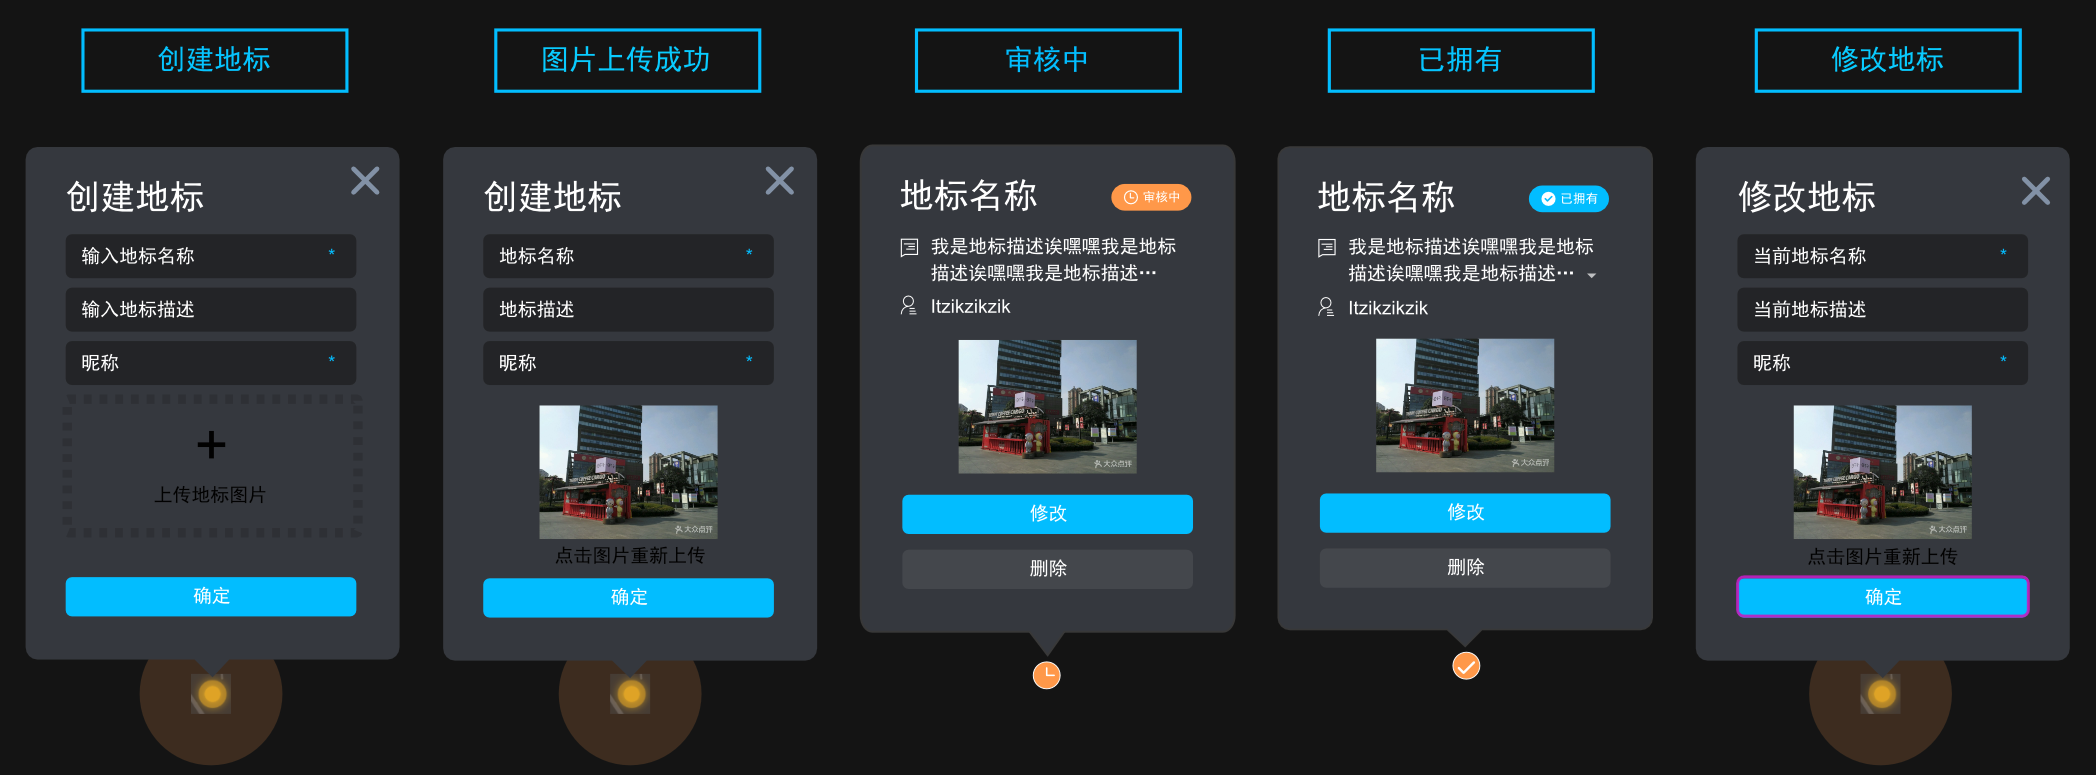
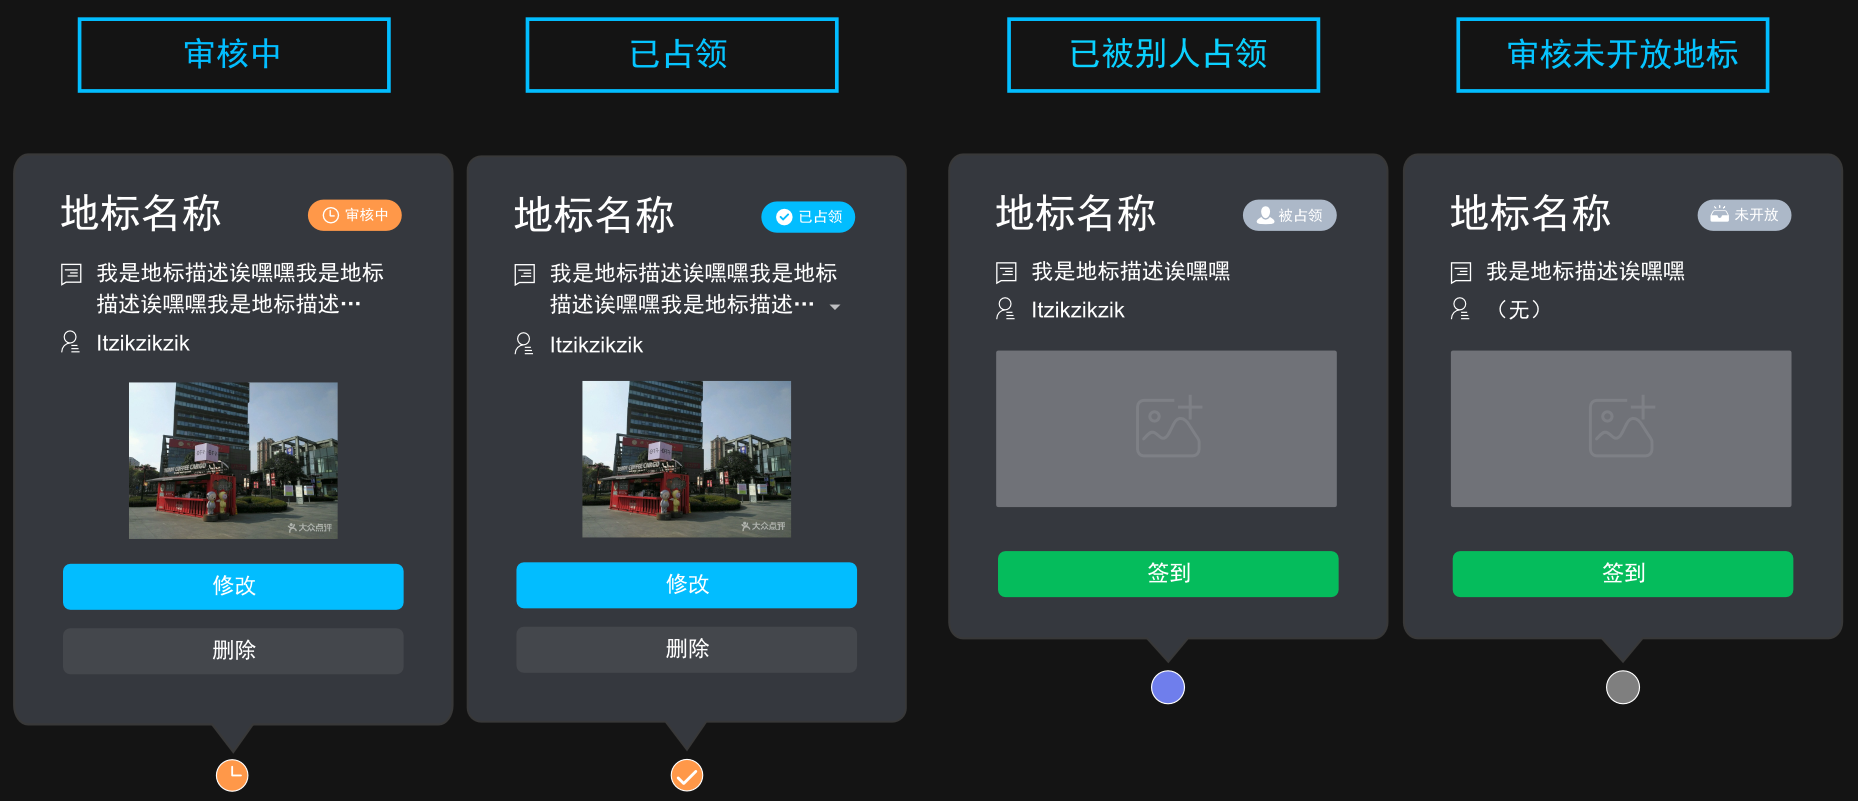
update document

diff --git a/requirements_documentation/地标打卡功能.md b/requirements_documentation/地标打卡功能.md
@@ -8,65 +8,64 @@
     * 以用户当前位置为中心，渲染一个半径为50米签到范围的半透明圆形签到范围。
     * 当用户缩放地图后，重新渲染签到范围覆盖的范围。
 * b)当用户可以创建地标的时候，在用户当前位置上
-* c) 默认显示其500米以内任何用户创建的处于“已拥有”状态的地标
+* c) 默认显示其500米以内任何用户创建的处于“已占领”状态的地标
 * d) 默认显示其500米以内任何用户创建的处于“未开放”状态的地标。
-* d) 默认显示当前登录**用户创建的所有**处于“审核中”和“已拥有”状态的所有地标
-* e) 当前用户定位坐标与距离最近的地标间隔大于10米时，在用户当前位置上方显示“创建地标”按钮
-* d) 地标完整显示方式都是缩略图气泡+标记点。
+* e) 默认显示当前登录**用户创建的所有**处于“审核中”和“已占领”状态的所有地标
+* f) 当前用户定位坐标与距离最近的地标间隔大于10米时，在用户当前位置上方显示“创建地标”按钮
+* g) 地标完整显示方式都是缩略图气泡+标记点。
     * 缩略图气泡显示规则：
         * 只有当地图比例尺显示精度达到100米的时候，才开始显示缩略图气泡，气泡中展示当前地标的缩略图片
         * 缩略图紧密显示在标记点的上方
-        * 当缩略图气泡出现遮挡情况时，默认地图中越靠近北极的气泡显示层级越高，越靠近左边的气泡显示层级越高。层级高的气泡会遮挡层级低的气泡。
+        * 当缩略图气泡出现遮挡情况时，默认地图中越靠近北极的气泡显示层级越高，越靠近左边的气泡显示层级越高。
+        * 层级高的气泡会遮挡层级低的缩略图气泡。
 ![气泡缩略图显示层级](../image/地标签到打卡/0.png)
     * 标记点显示规则：
         * 一共采用4种UI图标来区分标记点
-            * 未开放的地标：（灰色圆点）
-            * 别人发布的地标：（蓝色圆点）
+            * 未开放的地标--未开放状态（灰色圆点）
+            * 别人发布的地标--被占领状态（蓝色圆点）
             * 当前登录用户发布的地标--审核中状态（橘色时钟圆点）
-            * 当前登录用户发布的地标--已拥有状态（橘色对勾圆点）
-        * 标记点的显示层级低于缩略图气泡,气泡一定会遮挡住标记点
-            
+            * 当前登录用户发布的地标--已占领状态（橘色对勾圆点）
+        * 标记点的显示层级低于缩略图气泡,气泡一定会遮挡住标记点            
 ![标记点类型](../image/地标签到打卡/point.png)
 
 ---
 ## 2. 互动操作
-* 点击地图界面上任意图标，都会弹出详情界面，并且将点击的图标水平居中，垂直居画面下方1/3处
-### 创建和修改地标
-![标记点类型](../image/地标签到打卡/cards_state.png)
+### 2.1 地图操作
+* 重新定位：点击“定位按钮”，重新定位用户位置，并且重新渲染周围地标内容。
+* 缩放地图时：在“定位按钮”旁边加入比例尺显示。
+### 2.2 创建-修改-审核地标
+![创建地标浮窗样式](../image/地标签到打卡/create_card.png)
+![界面样式](../image/地标签到打卡/review_point.png)
 #### 创建地标
-* 当用户点击“创建地标”按钮之后，会显示出创建地标弹窗，需要填写以下信息（\*号为必填）
+* 当用户点击“创建地标”按钮之后，会在用户当前位置显示出“创建地标”弹窗，并且将用户位置图标和地图在屏幕上保持水平居中，垂直居画面下方1/3处.
+* 只有点击“创建地标”弹窗上的退出按钮才可以关闭弹窗界面
+* 在“创建地标”弹窗中需要填写以下信息（\*号为必填）
     * 地标名称 \*
     * 地标描述
     * 点击上传地标图片 \*（固定尺寸的缩略图，点击可放大）
-    * 昵称 \* （注：该昵称不跟随地标，跟随用户，即该用户所拥有的所有地标，昵称均为一个，初始没有，默认显示为：“用户+随机八位字符串”，字符串为字母+数字）
+    * 昵称 \* （注：该昵称不跟随地标，跟随用户，即该用户所占领的所有地标，昵称均为一个，初始没有，默认显示为：“用户+随机八位字符串”，字符串为字母+数字）
 * 填写完成后再次点击图片可以重新上传
-* 点击“确定”按钮之后，上传内容，该地标进入审核状态，由后台人员进行审核。（审核流程~）
-#### 审核
+* 点击“确定”按钮之后，弹出钱包签名请求，确认签名后上传内容，该地标进入审核状态，由后台人员进行审核。（审核流程~）
 * 在审核过程中，会在该申请地标的位置生成一个只有“创建者”和“管理员”才可以看见的标记点和缩略图气泡
-* 地标审核状态一共有三种：
-    * 审核中：用户提交后的状态，在管理员没有审核完成之前，用户都可以以远程的方式选中地标并且进行内容修改（查看上图中“审核中”“已拥有”和“修改地标”中的设计）
-    * 已拥有：审核通过后的状态。
-    * 删除
-    * 未开放：后续可以开发用户主动释放地标，以及管理员删除用户拥有的地标功能。（比如认定某个用户为恶意用户，管理员可清空他的资产。）
-### 查看地标
-![定位到当前位置](../image/地标签到打卡/review_point.png)
-
-
-1. 用户上传后，该地标进入审核状态，由后台人员审核通过后状态变为已拥有。（后台审核页面待定）
-
-2. 地标状态一共分为三种：
-
-
-3. 用户上传后，即在该点显示一个新的标识。点击弹出浮层显示详情（类似于dapp大会的显示。）
-![定位到当前位置](../image/地标签到打卡/2.png)
-
-* 浮层显示的详情信息包括：地标名称，拥有者昵称，地标描述，地标状态（审核中，已拥有），地标照片（缩略图，点击可放大）
+#### 审核
+* 地标审核状态一共有4种：
+    * 审核中：用户提交后的状态，在管理员没有审核完成之前，用户都可以以远程的方式选中地标并且进行内容修改（查看上图中“审核中”“已占领”和“修改地标”中的设计）
+    * 已占领：审核通过后的状态。
+    * 已删除：
+    * 未开放：后续可以开发用户主动释放地标，以及管理员删除用户占领的地标功能。（比如认定某个用户为恶意用户，管理员可清空他的资产。）
+### 2.3 查看地标
+![查看地标浮窗样式](../image/地标签到打卡/cards_state.png)
+* 用户上传后，即在该点显示一个新的标识。点击弹出浮层显示详情（类似于dapp大会的显示。）
+* 浮层显示的详情信息包括：地标名称，占领者昵称，地标描述，地标状态（审核中，已占领），地标照片（缩略图，点击可放大）
+### 2.4 修改地标
+![修改地标界面](../image/地标签到打卡/modify.png)
+* 用户点击自己创建的处于“审核中”和“已占领”状态的地标，在弹出的浮窗中可以选“修改”或“删除”操作。这一步操作需要钱包签名验证身份。
+* 确认身份后
+### 2.5 签到
+*用户只可以在处于“被占领”和“未开放”状态的地标上进行签到
 
 
 
-任意用户都可以上传地标。地标上传之后会进入审核状态，在审核过程中这个地标只有发布用户自己可以看到，在审核未完成之前，用户可以一直提交修改。---审核完成结果有3种状态：1.审核通过。2.审核不通过删除。3.审核不通过但不删除（未开放地标）。状态1的情况下，所有用户都可以看到这个地标点，任何人都可以来这个地标点打卡。状态2的情况下，所有用户都无法看到这个地标点。状态3的情况下，任何人都可以看到这个地标点（公共地标状态）---
-
-前期简化设计，所有用户自己的各种状态的点都用同一个样式（橘黄色），别人所有状态的点都同一个样式（蓝色），所有未开放的地标点都使用同一个样式（红色）
 
 UI显示
 * 已经被打卡几次
